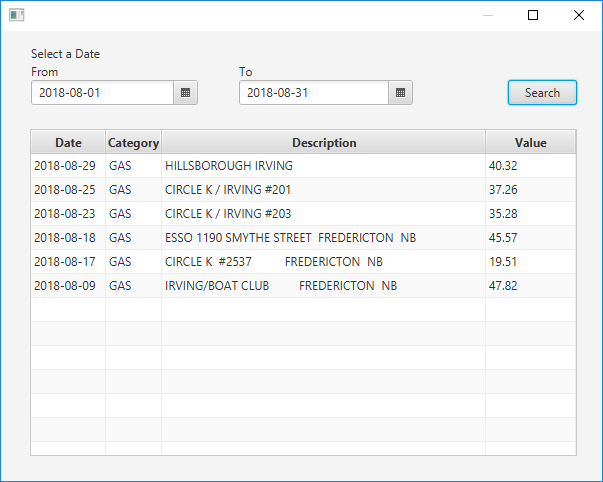
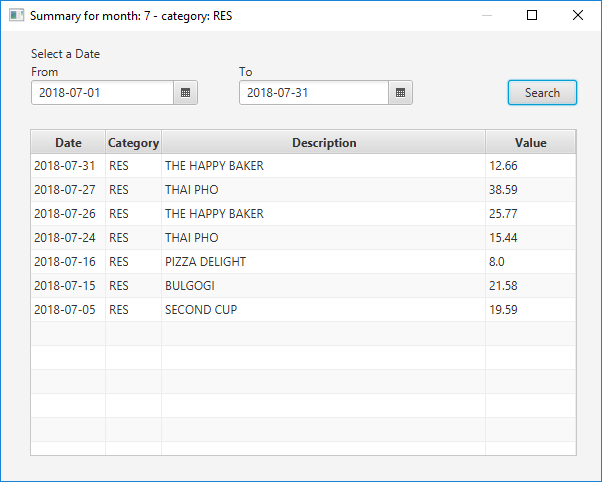
Modified Window Title

diff --git a/src/main/java/fxml/YearlySummaryController.java b/src/main/java/fxml/YearlySummaryController.java
@@ -271,10 +271,11 @@ public class YearlySummaryController implements javafx.fxml.Initializable{
 				FXMLLoader loader = new FXMLLoader();
 				loader.setLocation(getClass().getResource("/fxml/SearchByDate.fxml"));
 				loader.setController(new SearchByDateController(month, year, categoryCode));
-				Scene scene = new Scene(loader.load(),900,450);
+				Scene scene = new Scene(loader.load(),600,450);
 				Stage newStage = new Stage();
 				
 				newStage.setScene(scene);
+				newStage.setTitle("Summary for month: " + month + " - category: " + categoryCode);
 				newStage.initModality(Modality.APPLICATION_MODAL);
 				//stage.sizeToScene();
 				newStage.show();
@@ -318,6 +319,7 @@ public class YearlySummaryController implements javafx.fxml.Initializable{
 				Stage newStage = new Stage();
 				
 				newStage.setScene(scene);
+				newStage.setTitle("List Transactions by Category and Date");
 				newStage.initModality(Modality.APPLICATION_MODAL);
 				//stage.sizeToScene();
 				newStage.show();

diff --git a/src/main/java/core/BatchHandler.java b/src/main/java/core/BatchHandler.java
@@ -112,7 +112,7 @@ public class BatchHandler extends TransactionHandler {
 				stmt.setDouble(3, transaction.getValue());
 				stmt.setString(4, transaction.getType() + "");
 				//Sets account_id to 10, which represents Common
-				stmt.setInt(5, 10);
+				stmt.setInt(5, 11);
 				stmt.setString(6, transaction.getCategory());
 				// Sets fdescription_id to 0, which represents Undefined
 				stmt.setInt(7, 0);

diff --git a/src/main/java/database/MySQLConnection.java b/src/main/java/database/MySQLConnection.java
@@ -6,7 +6,7 @@ import java.sql.SQLException;
 
 public class MySQLConnection {
 
-	private static String url = "jdbc:mysql://localhost:3306/financeorganizer?autoReconnect=true&useSSL=false";
+	private static String url = "jdbc:mysql://localhost:3306/dummydb?autoReconnect=true&useSSL=false";
     private static String user = "root";
     private static String password = "adminroot";
     

diff --git a/src/main/java/core/ApplicationGUI.java b/src/main/java/core/ApplicationGUI.java
@@ -144,6 +144,7 @@ public class ApplicationGUI extends VBox{
 			scene.getStylesheets().add("application.css");
 			
 			newStage.setScene(scene);
+			newStage.setTitle("Personal Finance Organizer");
 			//stage.sizeToScene();
 			newStage.show();
 		
